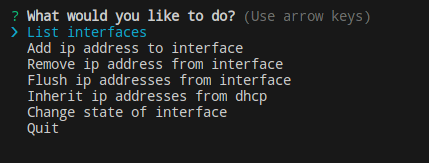
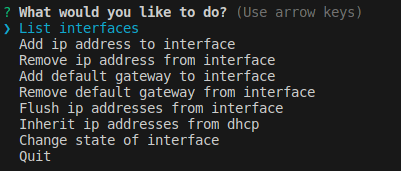
Removing default gateway

Changed region(s): [[0.0, 0.0307, 0.8978, 0.9509]]

diff --git a/actions/removeDefaultGateway.js b/actions/removeDefaultGateway.js
@@ -1,0 +1,99 @@
+import { exec, keypress, refreshInterfaces, interfaceList } from "../tools.js";
+import chalk from "chalk";
+import inquirer from "inquirer";
+
+/**
+ * Represents a route entry in the network routing table.
+ * @typedef {Object} RouteEntry
+ * @property {string} dst - The destination network or host.
+ * @property {string} gateway - The gateway IP address or '*' if none.
+ * @property {string} dev - The name of the network interface.
+ * @property {string} scope - The scope of the route.
+ * @property {string} proto - The routing protocol.
+ * @property {string} metric - The route metric.
+ * @property {string} via - The route via address.
+ * @property {string} src - The source IP address.
+ * @property {string} cache - The route cache status.
+ * @property {string} rtt - The round-trip time for the route.
+ * @property {string} rttvar - The round-trip time variance for the route.
+ * @property {string} ssthresh - The slow start threshold for the route.
+ * @property {string} cwnd - The congestion window for the route.
+ * @property {string} advmss - The advertised maximum segment size for the route.
+ * @property {string} reordering - The reordering for the route.
+ * @property {string} window - The window size for the route.
+ * @property {string} mss - The maximum segment size for the route.
+ * @property {string} irtt - The initial round-trip time for the route.
+ * @property {string} qdisc - The queuing discipline for the route.
+ * @property {string} qlen - The queue length for the route.
+ * @property {string} backlog - The backlog for the route.
+ */
+
+export async function removeDefaultGatewayAction () {
+    let interfaceAnswers = await inquirer.prompt ([
+        {
+            type: 'list',
+            name: 'interface',
+            message: 'Which interface would you like to affect?',
+            choices: [...Object.keys (interfaceList), 'Cancel']
+        }
+    ]);
+
+    if (interfaceAnswers.interface == 'Cancel') {
+        console.clear ();
+        return;
+    }
+
+    await removeDefaultGateway (interfaceAnswers.interface);
+    console.clear ();
+    refreshInterfaces ();
+}
+
+async function removeDefaultGateway (selectedInterface) {
+    /**
+     * @type {Array<RouteEntry>}
+     */
+    let routes;
+
+    try {
+        let { stdout } = await exec (`ip --json route show dev ${selectedInterface}`);
+        routes = JSON.parse (stdout);
+
+        routes = routes.filter (route => {
+            return route.dst == 'default';
+        })
+    } catch (e) {
+        console.error (chalk.redBright ("Command failed to execute: " + e));
+        console.log (chalk.white ());
+        console.log ('Press any key to continue...');
+        await keypress ();
+        return;
+    }
+
+    let gateways = routes.map (route => {
+        return route.gateway;
+    })
+
+    let gateway = await inquirer.prompt ([
+        {
+            type: 'list',
+            name: 'gateway',
+            message: 'Which gateway would you like to remove?',
+            choices: gateways
+        }
+    ]);
+
+    try {
+        await exec (`sudo ip route del default via ${gateway.gateway} dev ${selectedInterface}`);
+    } catch (e) {
+        console.error (chalk.redBright ("Command failed to execute: " + e));
+        console.log (chalk.white ());
+        console.log ('Press any key to continue...');
+        await keypress ();
+        return;
+    }
+
+    console.log ('Gateway successfully removed');
+    console.log ();
+    console.log ('Press any key to continue...');
+    await keypress ();
+}

diff --git a/index.js b/index.js
@@ -10,6 +10,7 @@ import { flushAddressesAction } from "./actions/flushAddresses.js";
 import { dhcpInherit } from "./actions/dhcpInherit.js";
 import { changeStateAction } from "./actions/changeState.js";
 import { addDefaultGatewayAction } from "./actions/addDefaultGateway.js";
+import { removeDefaultGatewayAction } from "./actions/removeDefaultGateway.js";
 
 const cli = meow(`
     Usage
@@ -37,11 +38,13 @@ refreshInterfaces ();
                     'Add ip address to interface',
                     'Remove ip address from interface',
                     'Add default gateway to interface',
+                    'Remove default gateway from interface',
                     'Flush ip addresses from interface',
                     'Inherit ip addresses from dhcp',
                     'Change state of interface',
                     'Quit'
-                ]
+                ],
+                pageSize: 9
             }
         ]);
 
@@ -62,6 +65,9 @@ refreshInterfaces ();
                 break;
             case 'Add default gateway to interface':
                 await addDefaultGatewayAction ();
+                break;
+            case 'Remove default gateway from interface':
+                await removeDefaultGatewayAction ();
                 break;
             case 'Flush ip addresses from interface':
                 await flushAddressesAction ();

diff --git a/README.md b/README.md
@@ -86,7 +86,7 @@ and move with your arrows. Select option, select additional parameters and the m
 - [x] Flushing ip addresses
 - [x] Inheriting addresses from DHCP
 - [x] Changing state of interface
-- [ ] Editing default gateway
+- [x] Editing default gateway
 - [ ] Editing DNS addresses
 - [ ] Saving configuration without any network manager installed (make own manager)
 - [ ] Exporting configuration to netplan and /etc/network.d
